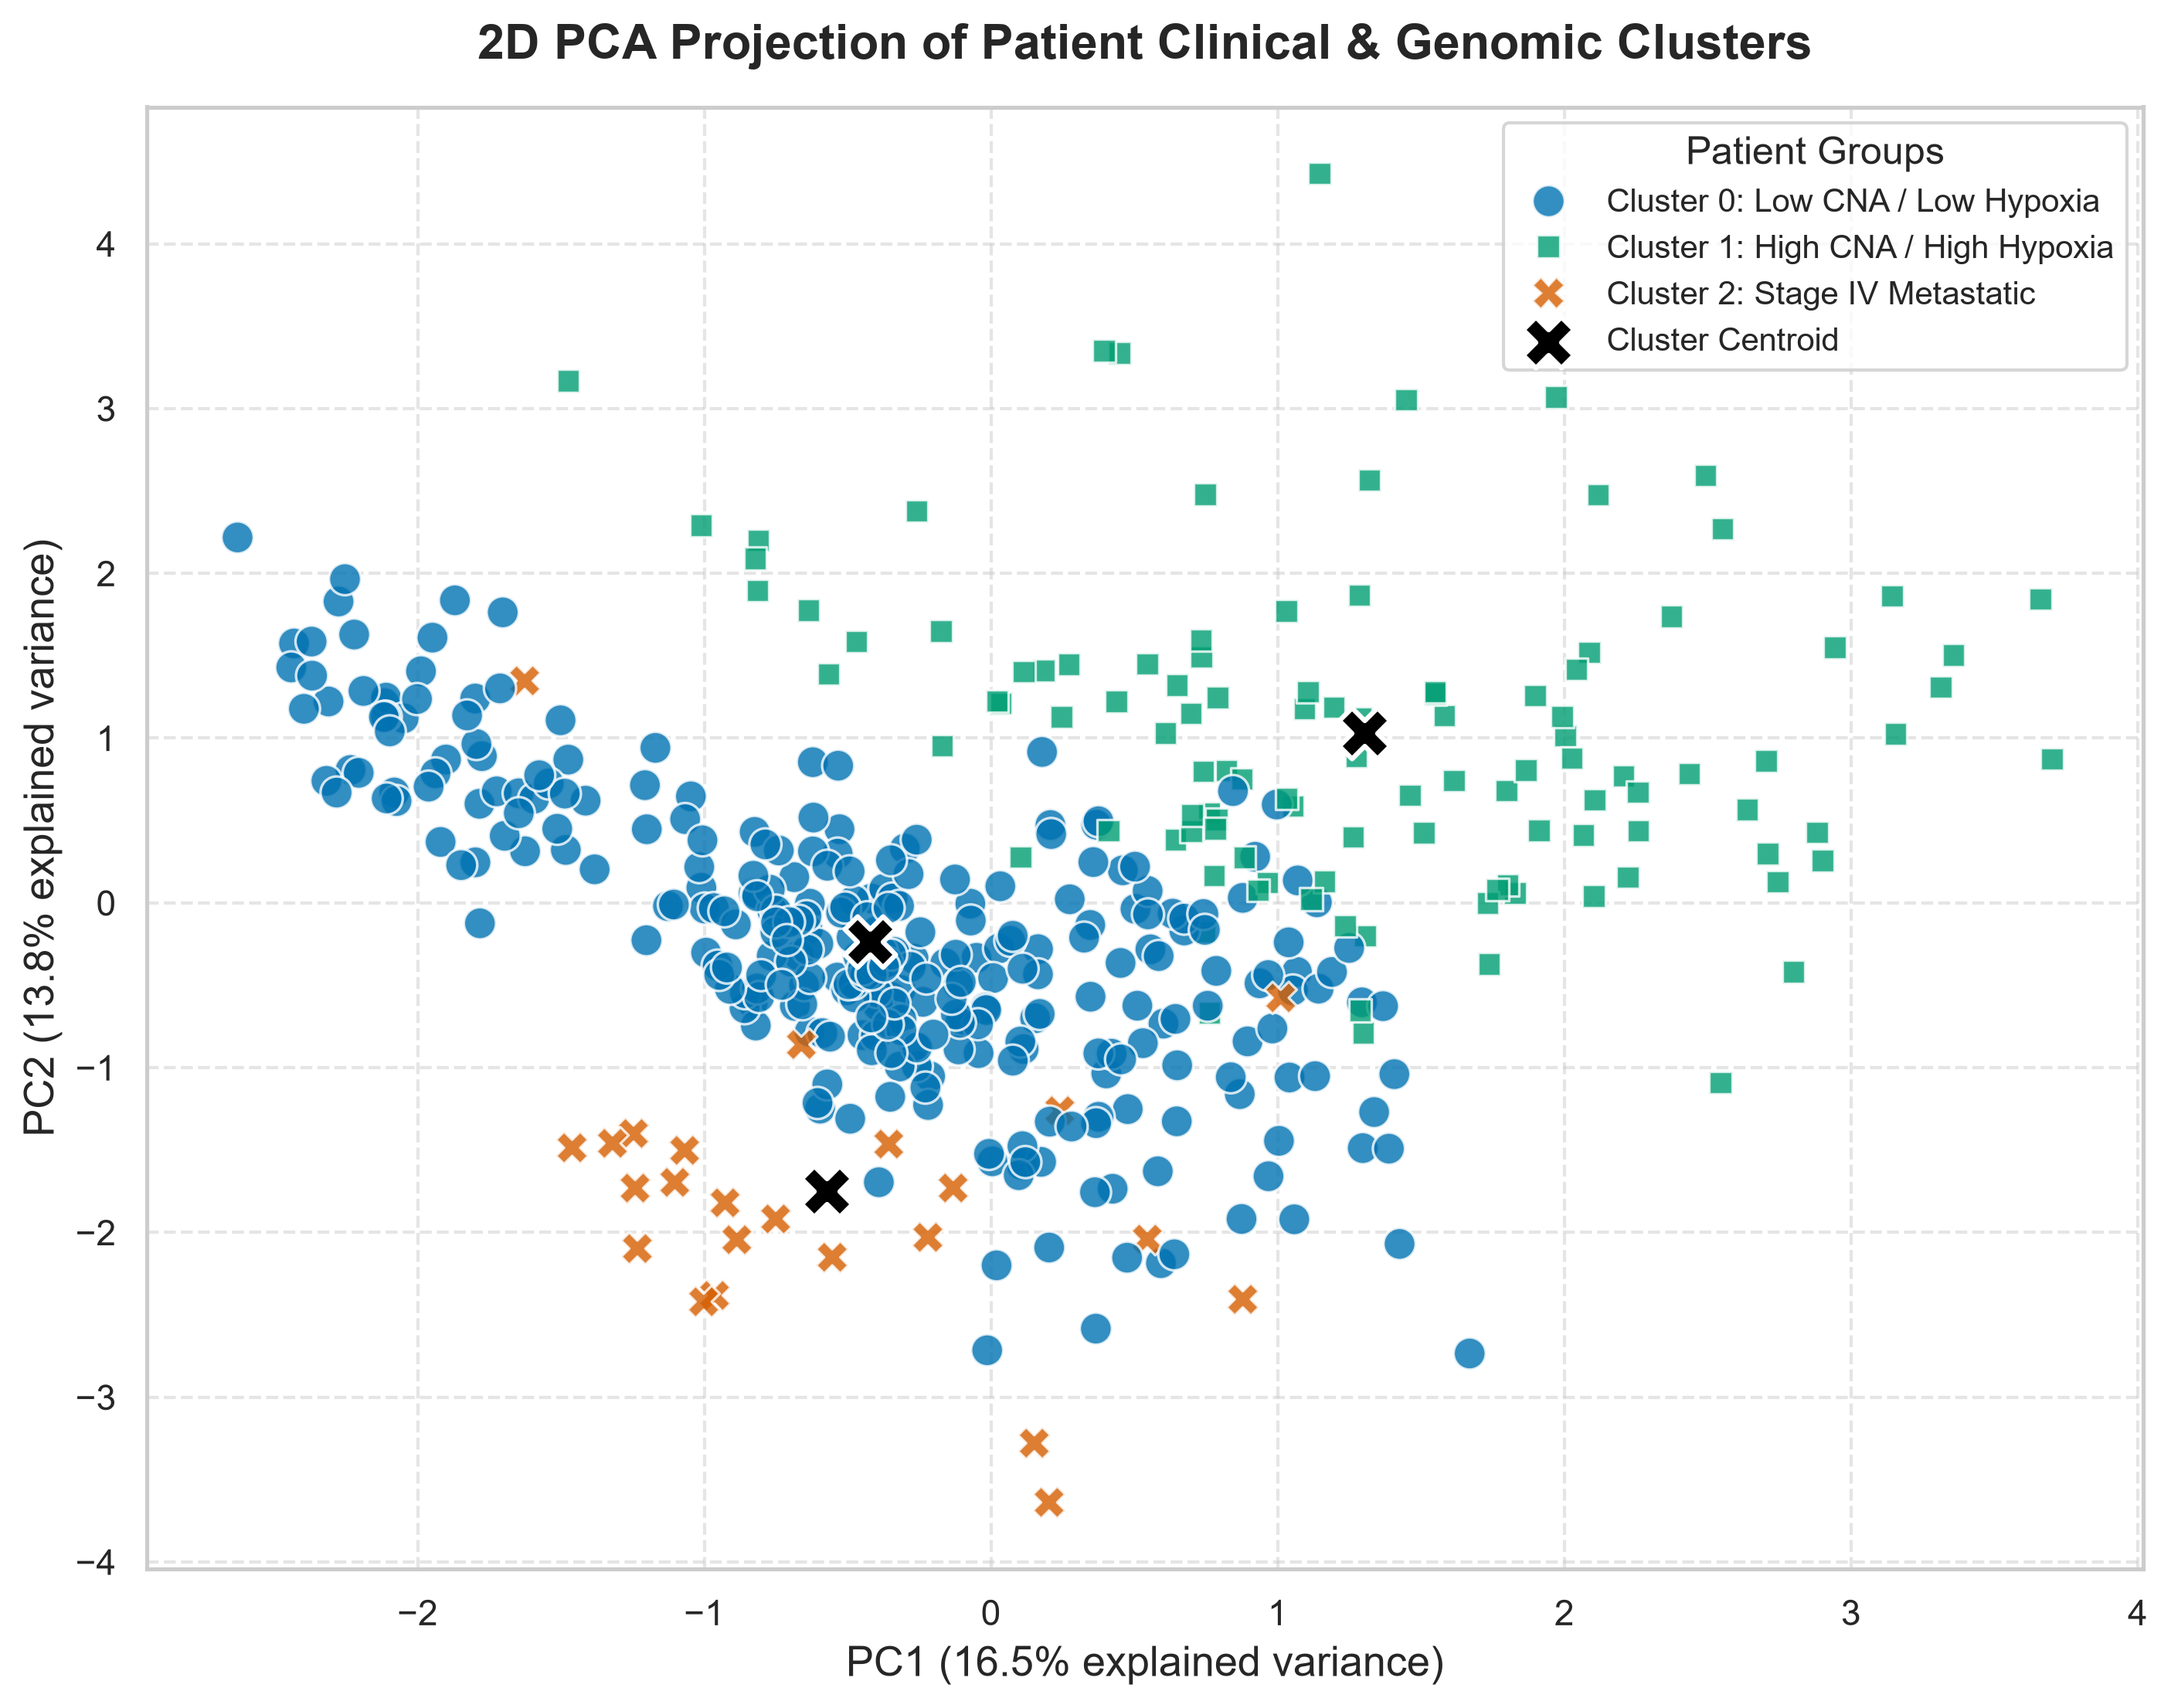
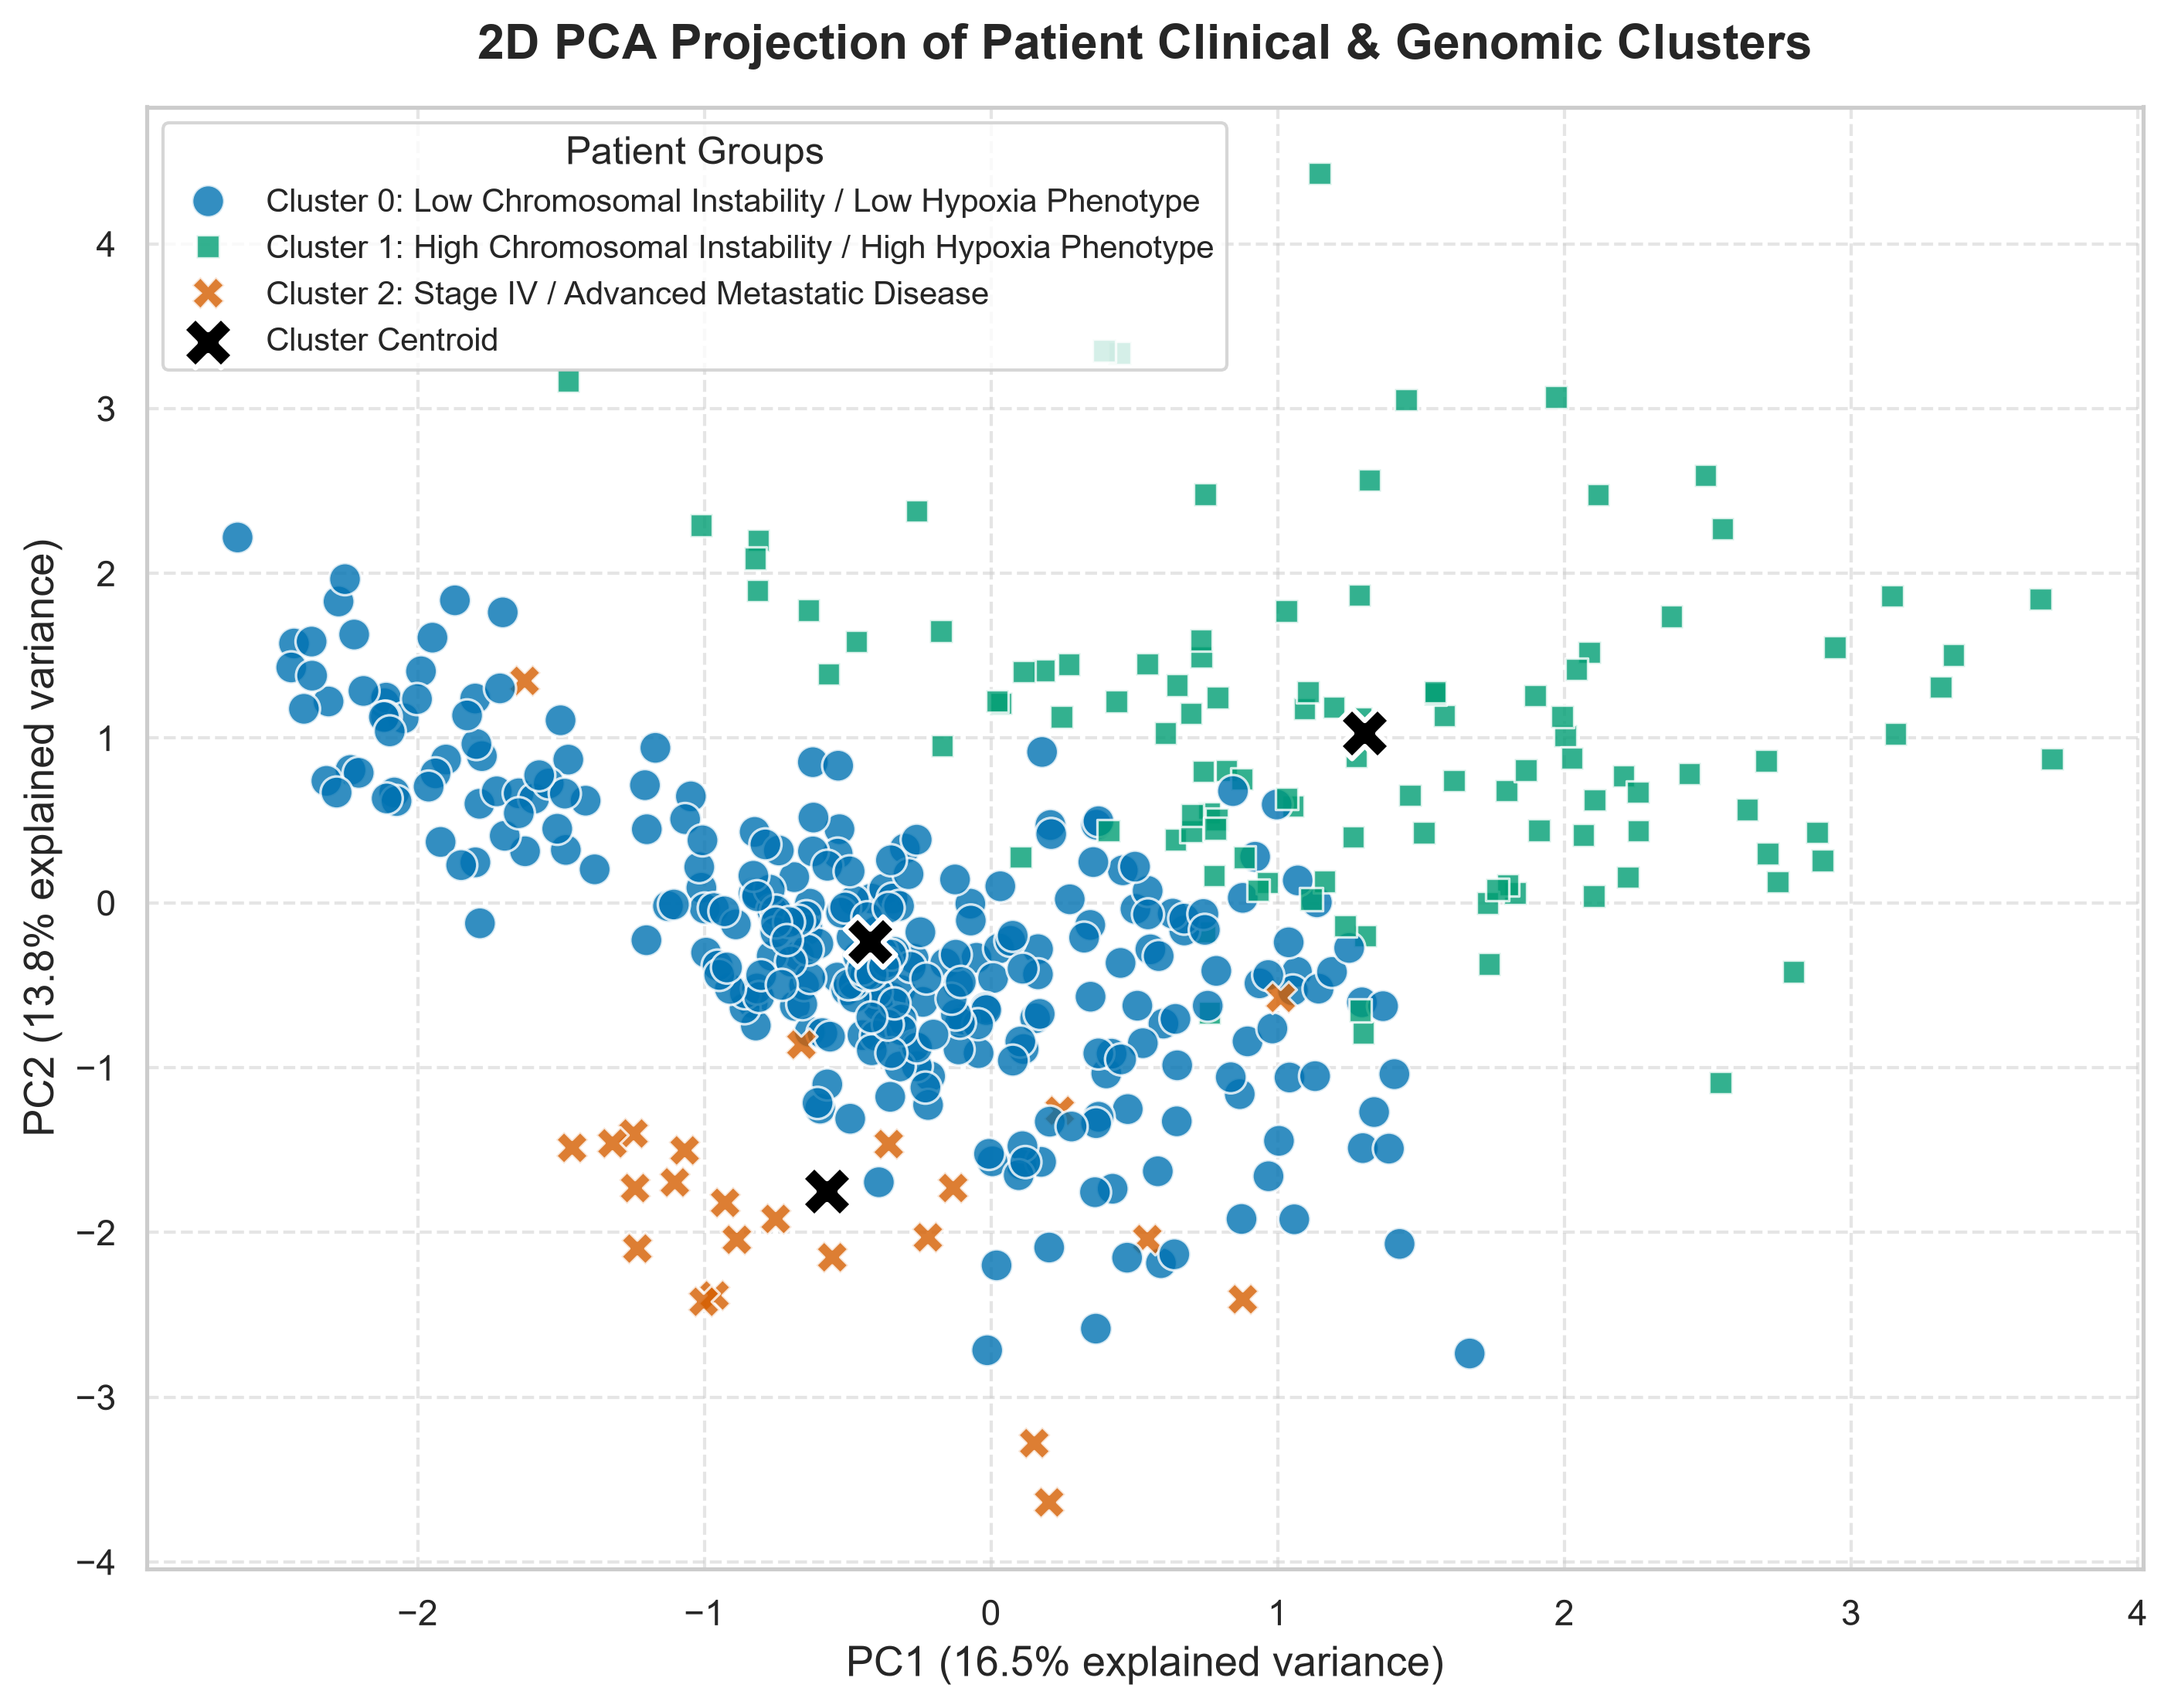
style(clinical): bind explicit dictionary palette to pca_clinical_clusters.png for Okabe-Ito compliance

Changed region(s): [[0.0619, 0.0624, 0.5573, 0.2185], [0.6811, 0.0624, 0.9907, 0.2185], [0.4954, 0.1872, 0.5263, 0.2185]]

diff --git a/q1-response-predictor/scripts/clinical_analysis/run_clinical_clustering.py b/q1-response-predictor/scripts/clinical_analysis/run_clinical_clustering.py
@@ -102,11 +102,7 @@ def main():
     from src.styles import COHORT_PALETTE, RESPONSE_PALETTE, set_presentation_style
 
     set_presentation_style()
-    fig, ax = plt.subplots(figsize=(9, 6.5))
-    colors = [COHORT_PALETTE["Liu 2019"], RESPONSE_PALETTE["CR/PR"], RESPONSE_PALETTE["PD"]] # Blue, Bluish Green, Vermillion Red
-    
-    kmf = KaplanMeierFitter()
-    
+
     # Custom names/interpretations for clusters based on profiling
     cluster_names = {
         0: "Cluster 0: Low Chromosomal Instability / Low Hypoxia Phenotype",
@@ -114,11 +110,20 @@ def main():
         2: "Cluster 2: Stage IV / Advanced Metastatic Disease"
     }
 
+    palette_dict = {
+        cluster_names[0]: COHORT_PALETTE["Liu 2019"],   # #0072B2 Blue
+        cluster_names[1]: RESPONSE_PALETTE["CR/PR"],    # #009E73 Bluish Green
+        cluster_names[2]: RESPONSE_PALETTE["PD"]        # #D55E00 Vermillion Red
+    }
+
+    fig, ax = plt.subplots(figsize=(9, 6.5))
+    kmf = KaplanMeierFitter()
+
     for c in range(3):
         mask = df_survival['CLINICAL_CLUSTER'] == c
         label = f"{cluster_names[c]} (N={mask.sum()})"
         kmf.fit(df_survival.loc[mask, 'OS_MONTHS'], df_survival.loc[mask, 'OS_STATUS'], label=label)
-        kmf.plot_survival_function(ax=ax, color=colors[c], ci_show=False, linewidth=2.5)
+        kmf.plot_survival_function(ax=ax, color=palette_dict[cluster_names[c]], ci_show=False, linewidth=2.5)
 
     # Multivariate Log-Rank Test
     results = multivariate_logrank_test(
@@ -151,25 +156,18 @@ def main():
     pca = PCA(n_components=2)
     pca_coords = pca.fit_transform(scaled_data)
     
-    cluster_names_short = {
-        0: "Cluster 0: Low CNA / Low Hypoxia",
-        1: "Cluster 1: High CNA / High Hypoxia",
-        2: "Cluster 2: Stage IV Metastatic"
-    }
-    
     df_pca = pd.DataFrame(pca_coords, columns=['PC1', 'PC2'])
     df_pca['Cluster'] = cluster_labels
-    df_pca['Cluster_Name'] = df_pca['Cluster'].map(cluster_names_short)
+    df_pca['Cluster_Name'] = df_pca['Cluster'].map(cluster_names)
     
     var_explained = pca.explained_variance_ratio_
     
     fig_pca, ax_pca = plt.subplots(figsize=(9.5, 7.5))
-    # Map cluster names to sorted order for consistent legend colors
-    hue_order = [cluster_names_short[0], cluster_names_short[1], cluster_names_short[2]]
+    hue_order = [cluster_names[0], cluster_names[1], cluster_names[2]]
     
     sns.scatterplot(
         x='PC1', y='PC2', hue='Cluster_Name', style='Cluster_Name',
-        data=df_pca, hue_order=hue_order, palette=colors, alpha=0.8, s=100, ax=ax_pca,
+        data=df_pca, hue_order=hue_order, palette=palette_dict, alpha=0.8, s=100, ax=ax_pca,
         edgecolor='w', linewidth=0.8
     )
     
